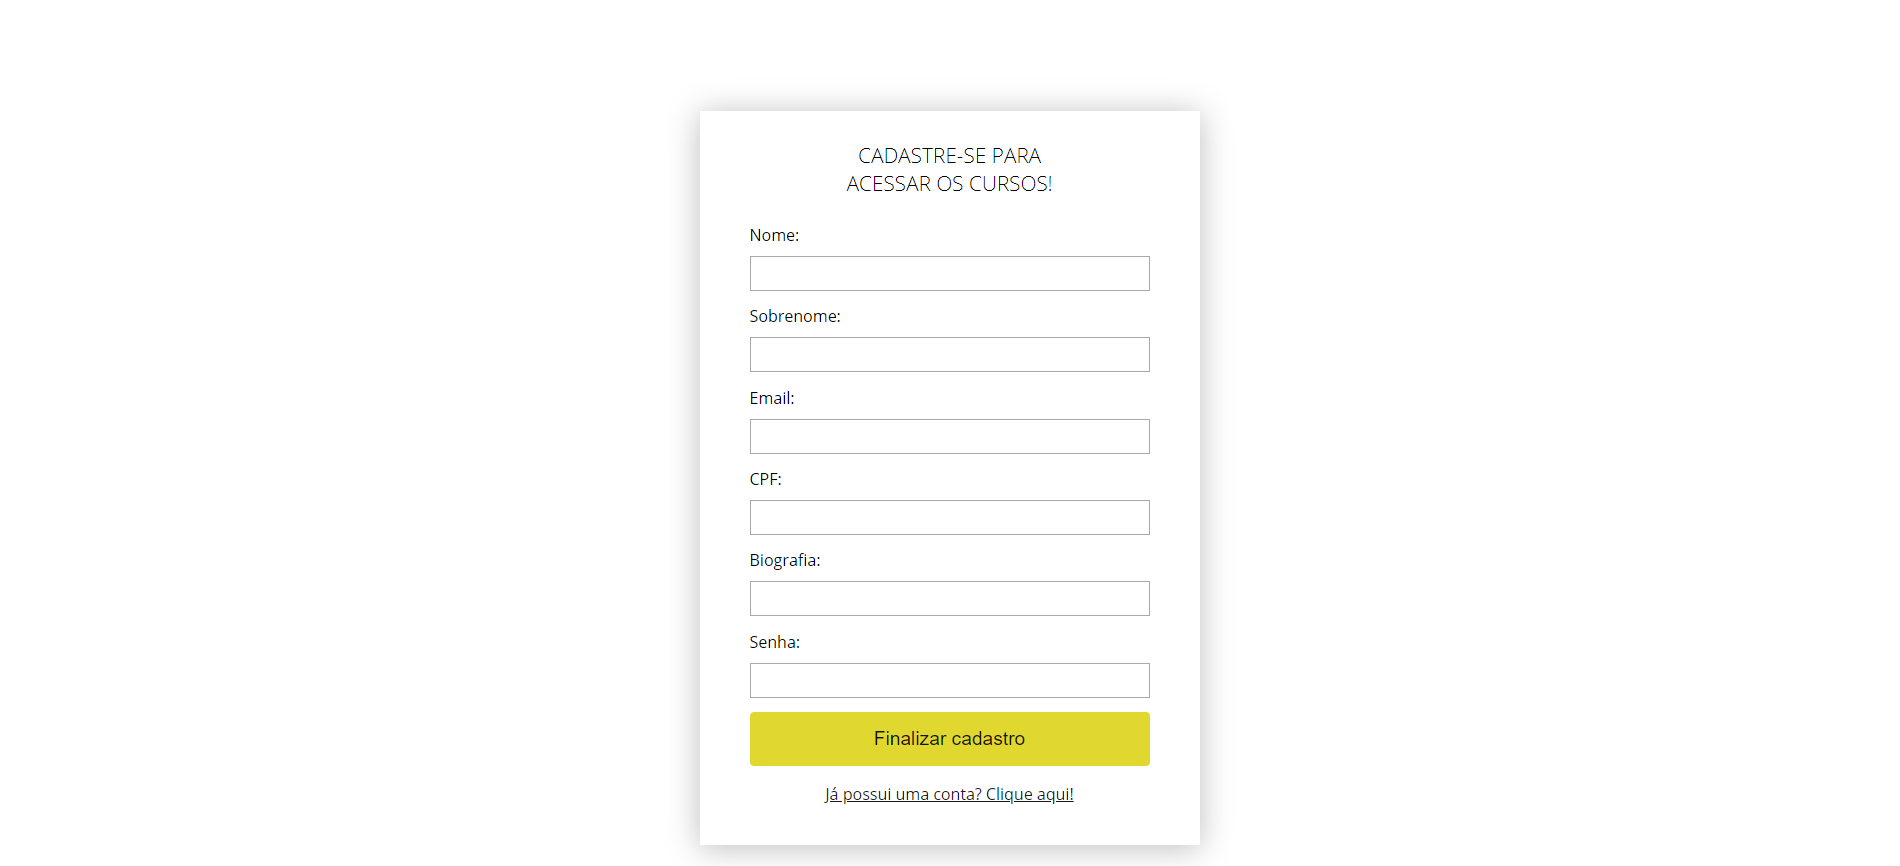
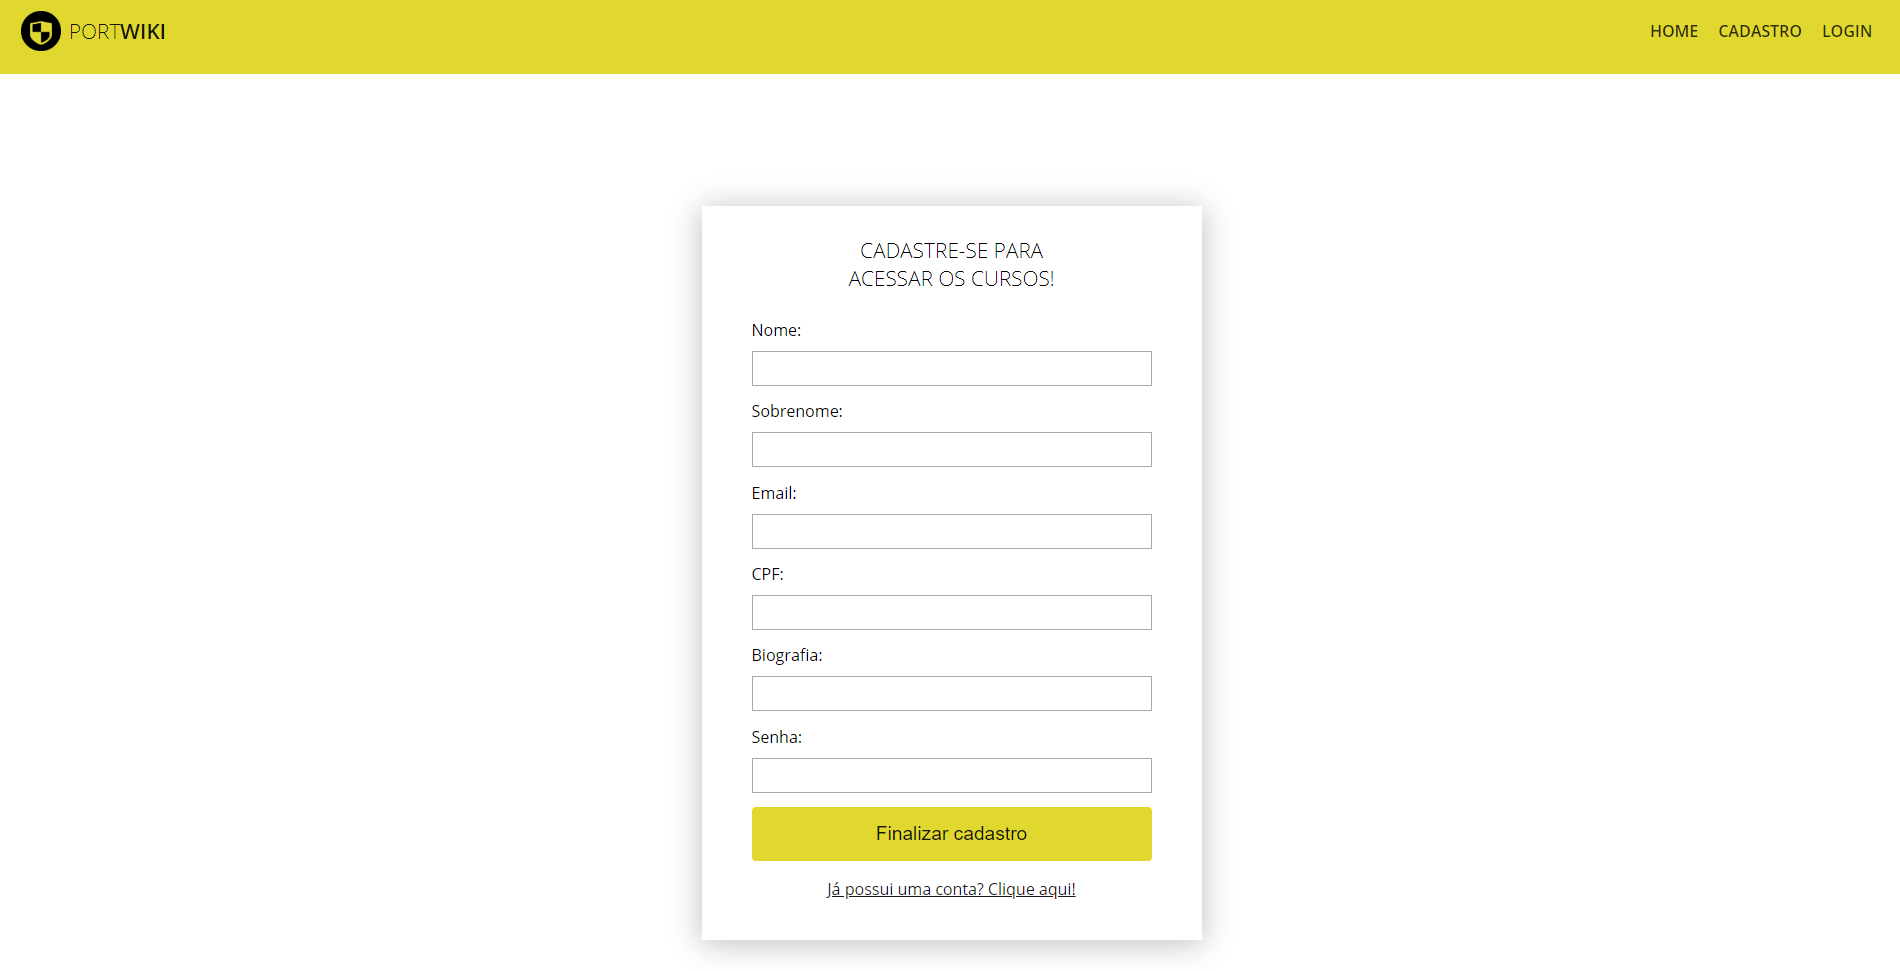
apagando arquivos inuteis e adicionando novos prints

diff --git a/page.html b/page.html
@@ -20,7 +20,7 @@
 	</head>
 	<body onload="reloadId(); start();">
 		<header>
-			<a href="#home" id="logo">
+			<a href="index.html" id="logo">
 				<div class="logo">
 					<img src="img/logo.png">
 

diff --git a/federal-institute.html b/federal-institute.html
@@ -20,7 +20,7 @@
 	</head>
 	<body onload="start();">
 		<header>
-			<a href="#home" id="logo">
+			<a href="index.html" id="logo">
 				<div class="logo">
 					<img src="img/logo.png">
 
